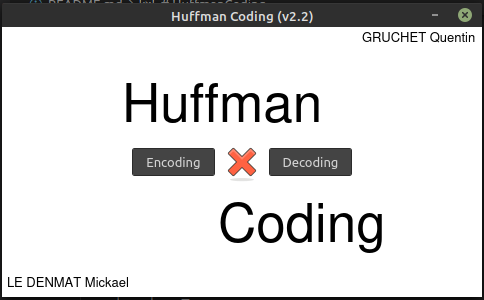
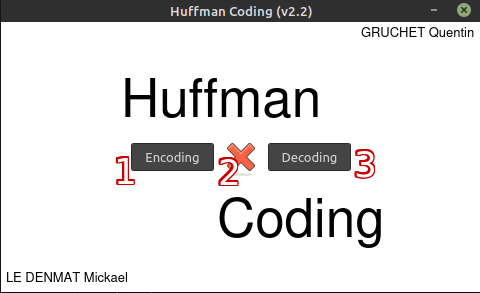
End fonction readme

diff --git a/src/windowQt/Treewidget.cpp b/src/windowQt/Treewidget.cpp
@@ -137,13 +137,8 @@ void drawLink(QPainter* painter, Sommet* node, int centerX, int centerY,
 /**
  * *Description : Draw tree.
  * @param painter for draw.
- * @param node, for get informations.
- * @param centerX, coords in x where we write.
- * @param centerY, coords in y where we write.
- * @param gapX, the distance between nodes in x.
- * @param gapY, the distance between nodes in y.
- * @param depth, the depth of the tree.
- * @param raduis, the radius of the node.
+ * @param width the widht.
+ * @param heigth the heigth.
  * */
 void TreeWidget::draw(QPainter* painter, int width, int height) {
     

diff --git a/README.md b/README.md
@@ -18,7 +18,6 @@ Implementation of Huffman coding in cpp.
     - [Writer.cpp](#Writer)
     - [Test.cpp](#Test)
     - [Parser.cpp](#Parser)
-    - [Main.cpp](#Main)
     - [Mainwindow.cpp](#MainWindow)
     - [Mybutton.cpp](#MyButton)
     - [MyTextEdit.cpp](#MyTextEdit)
@@ -115,13 +114,28 @@ To start our program, you have two options :
 - ``` make window ``` to run a graphic interface where you can interact with our program.
 
 # Usage
-![interface](screenshots/interface.png)  
-Here is a first look of the interface for the project (when you print the tree). All buttons are clickable.  
-![Print Test](screenshots/print_test.png) This button prints all the tests in the interface.  
-![print Tree](screenshots/print_tree.png)  This button prints the tree in the interface.  
-![clean](screenshots/clean.png)  This button clean all the window.  
-![quit](screenshots/quit.png)  This button close the window.  
-All buttons are connected to functions that have a description in windowQT file [see here](#windowQT).  
+![mainMenu](screenshots/mainMenu.png)
+
+This is our main menu of our application. All buttons are fonctional.
+1. This button open the encoding menu.
+2. This button stop our application.
+3. This button open the decoding menu. It's not implemented yet but don't worry it will come very soon.
+  
+![encodingMenu](screenshots/encodingMenu.png) 
+
+This is our encoding menu. Here you will can encoding any text and see in live the result.
+1. This button allows you to return to the previous menu.
+2. This button clear the display.
+3. This button close the application 
+4. This button allows you to draw three of your entering text.
+5. This button translate your text with Hauffman Coding.
+6. This is where you will write the text you want to translate.
+7. This is where you have the result of your translation.
+
+![print Tree](screenshots/treeMenu.png)
+
+1. This is a simple display of the tree.
+2. This button allows you to return to the previous menu.
 
 # Details of functions
 
@@ -590,28 +604,280 @@ int Test::getNumTestGlobal() const {
 ```
 ## Parser
 
+```cpp
+/**
+ * Description : Read the nameFile and fill the freq * vector.
+ * @param nameFile, the file name.
+ * @return vector of Data with the freq and the car of any caracters in the file.
+ * */
+std::vector<Data> Parser::freqChar(std::string nameFile) const {}
 
-## Main
+/**
+ * *Description : Check if all trees was merge in one.
+ * @param forest, the vector of tree.
+ * @return boolean, true if all trees have -1 in freq except one.
+ *          false, else.
+ * */
+bool stayOneTree(std::vector<ArbreB> forest) {}
+
+
+/**
+ * *Description : Create subtrees with all Data in vector, and merge in one.
+ * @param tabFreq, the freq vector of any char.
+ * @return the huffman tree.
+ * */
+ArbreB Parser::creatHuffmanTree(std::vector<Data> tabFreq) const {}
+
+/**
+ * * Description : Check if all trees was merge in one.
+ * @param node, the current node.
+ * @param str, the string for concat the convert letter.
+ * @param stack, a stack for save all convert letter.
+ * */
+void Parser::readHuffmanTree(Sommet* node, std::string str, std::stack<std::string>* stack) const {}
+```
 
 
 ## MainWindow
 
+```cpp
+/**
+ * *Description : Constructor with parameter.
+ * @param parent, the widget parent.
+ * */
+MainWindow::MainWindow(QWidget *parent)
+    : QMainWindow(parent){}
+
+/**
+ * *Description : Set a new width.
+ * @param sizeX, the widget sizeX.
+ * */
+void MainWindow::setWidth(int sizeX) {}
+
+/**
+ * *Description : Set a new height.
+ * @param sizeY, the widget sizeY.
+ * */
+void MainWindow::setHeight(int sizeY) {}
+
+/**
+ * *Description : Setup the main window.
+ * */
+void MainWindow::setup() {}
+
+/**
+ * *Description : Print the main menu.
+ * */
+void MainWindow::printMenu() {}
+
+/**
+ * *Description : Get back to the menu.
+ * */
+void MainWindow::menu() {}
+
+/**
+ * *Description : Print the encoding menu.
+ * */
+void MainWindow::menuEncoding(){}
+
+/**
+ * *Description : check if str recpect the ASCCI encoding.
+ * @param str, need to check.
+ * @return true/false.
+ * */
+bool checkASCII(std::string str) {}
+
+/**
+ * *Description : check if str is compose with only one char.
+ * @param str, need to check.
+ * @return true/false.
+ * */
+bool isOnlyOneChar(std::string str) {}
+
+/**
+ * *Description : Read the current text and convert him.
+ * */
+void MainWindow::encoding(){}
+
+/**
+ * *Description : Clear reader and writer in the encoding menu.
+ * */
+void MainWindow::clearEncoding() {}
+
+/**
+ * *Description : Drawing the huffman tree.
+ * */
+void MainWindow::drawTree() {}
+
+/**
+ * *Description : Print the decoding manu.
+ * */
+void MainWindow::menuDecoding(){}
+
+/**
+ * *Description : Reset the main window and change the size.
+ * */
+void MainWindow::resetWindow(int newWidth, int newHeight){}
+
+/**
+ * *Description : Destructor.
+ * */
+MainWindow::~MainWindow() {}
+```
 
 ## MyButton
 
+```cpp
+/**
+ * *Descirption : Constructor with parameter.
+ * @param parent, the widget parent.
+ * @param pathicon, the path for print the icon.
+ * */
+MyButton::MyButton(QWidget *parent, QString pathicon)
+    : QPushButton(parent){}
+
+MyButton::~MyButton() {}
+```
 
 ## MyTextEdit
 
+```cpp
+/**
+ * *Description : default constructor.
+ * @param parent = nullptr
+ * */
+MyTextEdit::MyTextEdit(QWidget *parent)
+    : QTextEdit() {}
+
+/**
+ * *Description : clear default text.
+ * @param event, not used.
+ * */
+void MyTextEdit::mousePressEvent(QMouseEvent *event) {}
+
+/**
+ * *Description : set a new text info.
+ * @param information, new text info.
+ * */
+void MyTextEdit::setInfo(QString information) {}
+
+/**
+ * *Description : get text info.
+ * @return info.
+ * */
+QString MyTextEdit::info() const {}
+
+/**
+ * *Description : set boolean if clic on textEdit dell the text.
+ * @param newClicDellText, the new boolean.
+ * */
+void MyTextEdit::setClicDellText(bool newClicDellText){}
+
+/**
+ * *Description : write text info in the textEdit.
+ * */
+void MyTextEdit::writeInfo() {}
+
+/**
+ * *Description : Destructor.
+ * */
+MyTextEdit::~MyTextEdit(){}
+```
 
 ## Titlewidget
 
+```cpp
+/**
+ * *Description : Constructor with parameters.
+ * @param parent, the widget parent.
+ * @param winSizeX, the widht.
+ * @param winSizeX, the height.
+ * */
+TilteWidget::TilteWidget(QWidget *parent, int winSizeX, int winSizeY): QWidget(parent){}
+
+/**
+ * *Description : Draw the tilte window.
+ * */
+void TilteWidget::paintEvent(QPaintEvent *event){}
+```
 
 ## Treewidget
+
+```cpp
+/**
+ * *Description : default constructor.
+ * @param parent = nullptr
+ * */
+TreeWidget::TreeWidget(QWidget *parent)
+    : QWidget(parent) {}
+
+/**
+ * *Description : set the tree for drawing it.
+ * @param newTree
+ * */
+void TreeWidget::setTree(ArbreB newTree) {}
+
+/**
+ * *Description : Write informations in all nodes.
+ * @param painter for draw.
+ * @param node, for get informations.
+ * @param centerX, coords in x where we write.
+ * @param centerY, coords in y where we write.
+ * @param raduis, the radius of the node.
+ * */
+void drawData(QPainter* painter, Sommet* node, int centerX, int centerY, int radius) {}
+
+/**
+ * *Description : Draw circle recursively we represent the node.
+ * @param painter for draw.
+ * @param node, for get informations.
+ * @param centerX, coords in x where we write.
+ * @param centerY, coords in y where we write.
+ * @param gapX, the distance between nodes in x.
+ * @param gapY, the distance between nodes in y.
+ * @param depth, the depth of the tree.
+ * @param raduis, the radius of the node.
+ * */
+void drawNode(QPainter* painter, Sommet* node, int centerX, int centerY, int gapX, int gapY, int depth, int radius) {}
+
+/**
+ * *Description : Draw line between nodes.
+ * @param painter for draw.
+ * @param node, for get informations.
+ * @param centerX, coords in x where we write.
+ * @param centerY, coords in y where we write.
+ * @param gapX, the distance between nodes in x.
+ * @param gapY, the distance between nodes in y.
+ * @param depth, the depth of the tree.
+ * @param raduis, the radius of the node.
+ * */
+void drawLink(QPainter* painter, Sommet* node, int centerX, int centerY, int gapX, int gapY, int depth, int radius) {}
+
+/**
+ * *Description : Draw tree.
+ * @param painter for draw.
+ * @param width the widht.
+ * @param heigth the heigth.
+ * */
+void TreeWidget::draw(QPainter* painter, int width, int height) {}
+
+/**
+ * *Description : main function paintEvent.
+ * @param event, not used.
+ * */
+void TreeWidget::paintEvent(QPaintEvent *event){}
+
+/**
+ * *Description : destructor
+ * */
+TreeWidget::~TreeWidget() {}
+```
 
 ```
 # Status
 
-20/11/2020 : version 3.0 => End part1
+20/11/2020 : version 1.3 => End part1
+09/12/2020 : version 2.2 => End part2
 
 # Explanation of the project
 
